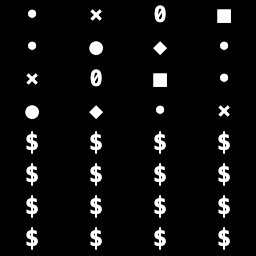
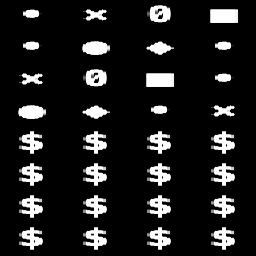
fix: design feedback on the pink panel, the field glyphs and the cards
The panel behind the closing title: the blur at full strength so the
glyphs behind it are gone rather than softened, and no tint over it -- a
tint is what made it read as a lighter box laid on the pink. What stops
it reading as a box now is its edges, masked to fade out on all four
sides. The two gradients are crossed rather than stacked so the corners
feather with the sides. The feather is added around the copy rather than
taken out of it -- the box grows by what it fades away -- so the content
box is the 720px it always was and the copy keeps its two lines.

The field's glyphs were half as wide as they should be. Each slot of the
atlas is 64x32 and the shader draws it into a square cell, so everything
in it is squeezed two to one on the way. The artwork is drawn twice as
wide in the slot now, which the squeeze undoes. Slot geometry is
untouched, so the engine needs no change. Squaring the slots instead --
256x512, glyph centred -- fixes the proportions but halves the size,
which is not what was asked for.

The two wide cards' headings sit on one line. The three narrow cards
carry 32px under their mark rather than 12px, which is what makes them
taller; the wide pair keep theirs.

diff --git a/src/components/Home/AgenticScaleSection.tsx b/src/components/Home/AgenticScaleSection.tsx
@@ -278,17 +278,62 @@ const PinkCard = styled.div`
   align-items: center;
   justify-content: center;
   gap: 44px;
-  width: 800px;
+  /* The feather is added around the copy rather than taken out of it: the box
+     grows by what it fades away, so the content box is the 720px it always was
+     and the copy keeps its own two lines. */
+  width: calc(800px + 2 * var(--feather));
   max-width: calc(100% - 48px);
-  padding: 40px;
   box-sizing: border-box;
 
-  /* Blur alone, to settle the glyphs behind the title so it reads. At a third
-     of the pink's opacity with a border it still showed as a lighter box; the
-     hero's card is barely there, and this matches that. */
-  background: rgba(0, 0, 0, 0.06);
-  backdrop-filter: blur(10px);
-  -webkit-backdrop-filter: blur(10px);
+  /* The blur at full strength, so the glyphs behind the title are gone rather
+     than softened, and no tint over it -- a tint is what made it read as a
+     lighter box laid on the pink. What stops it reading as a box now is its
+     edges: the panel is masked so it fades out on all four sides instead of
+     ending on a line. The two gradients are crossed rather than stacked, which
+     is what feathers the corners as well as the sides. */
+  background: transparent;
+  backdrop-filter: blur(32px);
+  -webkit-backdrop-filter: blur(32px);
+
+  --feather: 72px;
+  -webkit-mask-image: linear-gradient(
+      to right,
+      transparent 0,
+      #000 var(--feather),
+      #000 calc(100% - var(--feather)),
+      transparent 100%
+    ),
+    linear-gradient(
+      to bottom,
+      transparent 0,
+      #000 var(--feather),
+      #000 calc(100% - var(--feather)),
+      transparent 100%
+    );
+  mask-image: linear-gradient(
+      to right,
+      transparent 0,
+      #000 var(--feather),
+      #000 calc(100% - var(--feather)),
+      transparent 100%
+    ),
+    linear-gradient(
+      to bottom,
+      transparent 0,
+      #000 var(--feather),
+      #000 calc(100% - var(--feather)),
+      transparent 100%
+    );
+  -webkit-mask-composite: source-in;
+  mask-composite: intersect;
+
+  /* The mask feathers the panel, so the copy needs to sit inside the part of it
+     that is still solid or its own edges go soft with it. */
+  padding: calc(40px + var(--feather));
+
+  @media ${device.tablet} {
+    --feather: 44px;
+  }
 `;
 
 const LogoMark = styled.div`

diff --git a/src/components/Home/FeatureCard.tsx b/src/components/Home/FeatureCard.tsx
@@ -97,7 +97,10 @@ const CardFigure = styled.img`
   display: block;
   max-width: 100%;
   object-fit: contain;
-  margin: ${(props) => (props.wide ? '0 0 12px 0' : '0 auto 12px auto')};
+  /* The three narrow cards carry more air under their mark than the wide pair
+     do: it is what gives them their height, and the mark needs the room to
+     read as a mark rather than as something sitting on the title. */
+  margin: ${(props) => (props.wide ? '0 0 12px 0' : '0 auto 32px auto')};
 
   /* Two of the marks export with a viewBox but no width/height, so they need a
      size given to them; the aspect comes from the viewBox. Figma draws them at
